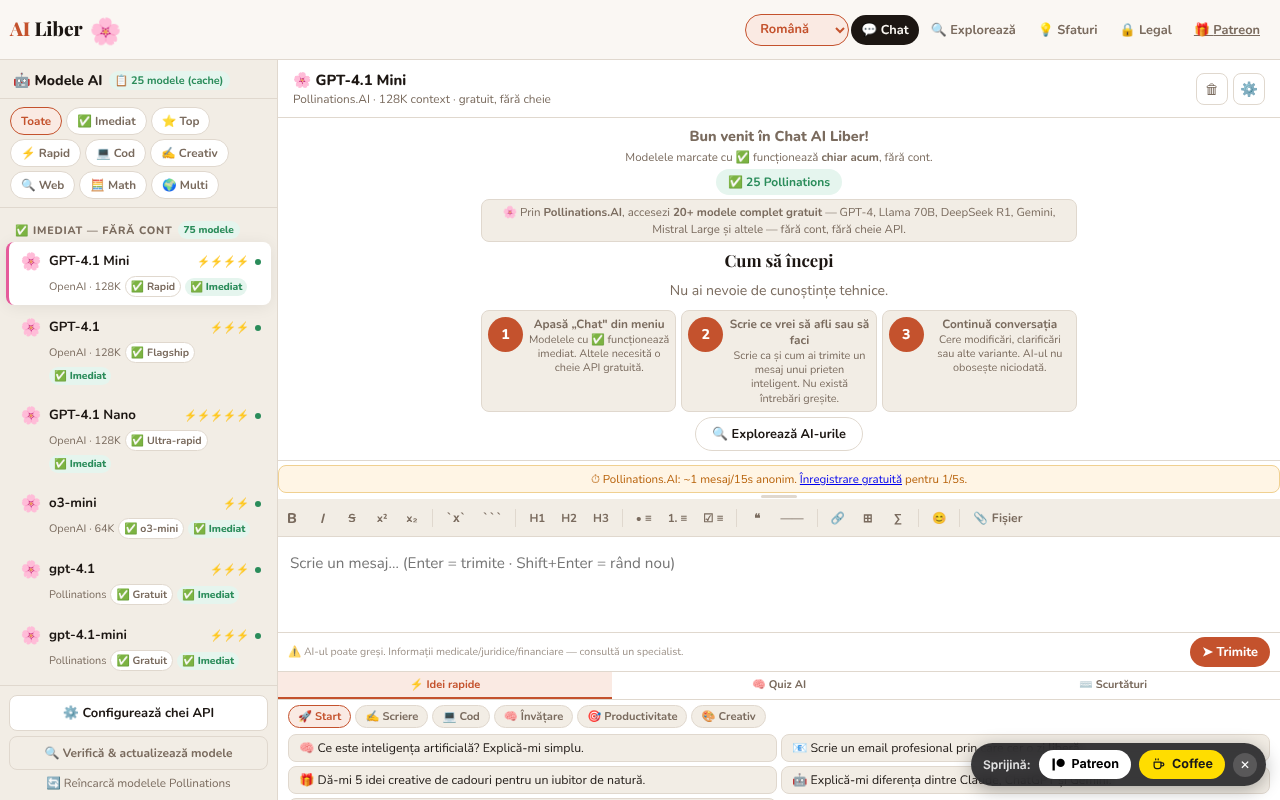
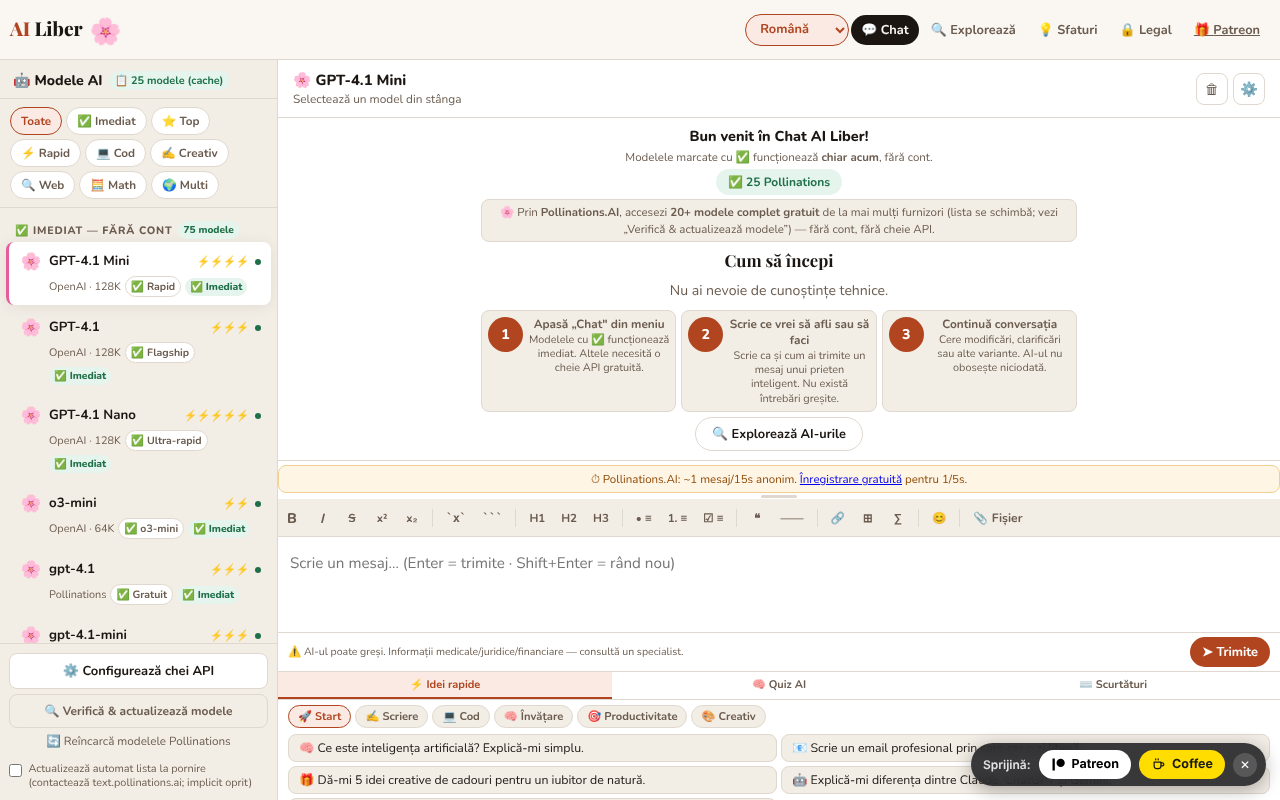
Runda 5 (11 octombrie 2026): reparații, accesibilitate, date și conținut actualizate
Claude-Session: https://claude.ai/code/session_01D2sCEb3hy3nutYexhUfQFs

diff --git a/index.html b/index.html
@@ -77,6 +77,8 @@ body>nav{position:fixed;top:0;left:0;right:0;height:var(--nav);z-index:200;
 .nb:hover{background:var(--surf2);color:var(--txt)}
 .nb.on{background:var(--txt);color:var(--bg)}
 
+.lmod-body,.lmod-body p,.lmod-body li,.lmod-body td{overflow-wrap:anywhere}
+.sr-only{position:absolute;width:1px;height:1px;margin:-1px;padding:0;overflow:hidden;clip:rect(0,0,0,0);white-space:nowrap;border:0}
 .page{display:none;padding-top:var(--nav)}
 .page.on{display:flex;flex-direction:column;min-height:100vh;min-height:100dvh}
 #page-chat.on{display:flex;flex-direction:column;min-height:unset;height:100vh;height:100dvh}
@@ -283,7 +285,7 @@ body.is-resizing .sb::after{opacity:.6}
 .dot:nth-child(2){animation-delay:.2s}.dot:nth-child(3){animation-delay:.4s}
 @keyframes bo{0%,60%,100%{transform:translateY(0)}30%{transform:translateY(-7px)}}
 .cwelc{text-align:center;padding:8px 20px 6px;color:var(--mut);max-width:520px;margin:0 auto}
-.cwelc h3{font-size:1.05rem;font-weight:700;color:var(--txt);margin-bottom:5px}
+.cwelc h2,.cwelc h3{font-size:1.05rem;font-weight:700;color:var(--txt);margin-bottom:5px}
 .cwelc p{font-size:.88rem;margin-bottom:5px;line-height:1.6}
 .wfree{font-size:.75rem;font-weight:700;color:var(--grn);background:var(--grn-lt);
   padding:5px 12px;border-radius:100px;display:inline-block;margin-bottom:13px}
@@ -544,6 +546,10 @@ body.inp-resizing{cursor:ns-resize!important;user-select:none!important}
   /* Pe telefoane mici ascunde eticheta Legal */
   #nb-legal .nl{display:none}
   .lang-sel option{max-width:60px}
+  nav{padding:0 6px}
+  .nb{padding:6px 6px}
+  .lang-sel-nav{max-width:68px;padding:4px 4px}
+  .logo-wico{display:none}
 }
 
 
@@ -849,6 +855,8 @@ body.inp-resizing{cursor:ns-resize!important;user-select:none!important}
   <a class="nb nb-patreon" href="https://www.patreon.com/c/alexio_tf" target="_blank" rel="noopener" data-i18n-title="patreonTitle" title="Susține AI Liber pe Patreon">🎁 <span class="nl" data-i18n="navPatreon">Patreon</span></a>
 </nav>
 
+<main id="main-content">
+<h1 class="sr-only">AI Liber</h1>
 <!-- CHAT -->
 <div class="page on" id="page-chat">
   <div class="sbov" id="sbov" onclick="closeSB()"></div>
@@ -903,7 +911,7 @@ body.inp-resizing{cursor:ns-resize!important;user-select:none!important}
       <div class="cmsgs" id="cmsgs">
         <div class="cwelc" id="cwelc">
           <span class="wico">🌸</span>
-          <h3 data-i18n="cwH">Bun venit în Chat AI Liber!</h3>
+          <h2 data-i18n="cwH">Bun venit în Chat AI Liber!</h2>
           <p data-i18n-html="cwP">Modelele marcate cu ✅ funcționează <strong>chiar acum</strong><span data-i18n="badgeSuffix2">, fără cont.</span></p>
           <div class="wfree" id="wfree-cnt" data-i18n="cwFree">✅ Se încarcă lista de modele gratuite…</div>
 
@@ -998,6 +1006,7 @@ body.inp-resizing{cursor:ns-resize!important;user-select:none!important}
   <div class="exwrap">
     <h2 class="stit" data-i18n="exH">Cele mai bune AI-uri gratuite</h2>
     <p class="ssub" data-i18n="exSub">Toate sunt gratuite. Fă clic pentru a le deschide direct.</p>
+    <p class="ssub" data-i18n="exNote" style="font-size:.78rem">Planurile gratuite și condițiile furnizorilor se schimbă des; catalogul a fost verificat doar parțial la 11.10.2026 — confirmă pe site-ul fiecărui serviciu.</p>
     <div class="fbar">
       <button class="fchip on" onclick="exF('all',this)" data-i18n="fAll">✦ Toate</button>
       <button class="fchip" onclick="exF('anon',this)" data-i18n="fAnon">🔒 Fără cont</button>
@@ -1059,6 +1068,21 @@ body.inp-resizing{cursor:ns-resize!important;user-select:none!important}
   </div>
 </div>
 
+<!-- LEGAL -->
+<div class="page" id="page-legal">
+  <div class="tips-wrap">
+    <h2 class="stit" data-i18n="navLegal" style="margin-bottom:12px">🔒 Legal</h2>
+    <div style="display:flex;gap:0;border-bottom:1px solid var(--bdr);margin-bottom:16px;overflow-x:auto">
+      <button class="ltab on" data-tab="privacy" onclick="openLegal('privacy')" data-i18n="ltPriv" style="flex:1;padding:9px 4px;border:none;border-bottom:2px solid transparent;background:none;font-family:'Nunito',sans-serif;font-size:.75rem;font-weight:700;cursor:pointer;color:var(--mut);white-space:nowrap;transition:all .16s;min-width:80px">🔒 Confidențialitate</button>
+      <button class="ltab" data-tab="terms" onclick="openLegal('terms')" data-i18n="ltTerms" style="flex:1;padding:9px 4px;border:none;border-bottom:2px solid transparent;background:none;font-family:'Nunito',sans-serif;font-size:.75rem;font-weight:700;cursor:pointer;color:var(--mut);white-space:nowrap;transition:all .16s;min-width:60px">📋 Termeni</button>
+      <button class="ltab" data-tab="cookies" onclick="openLegal('cookies')" data-i18n="ltCook" style="flex:1;padding:9px 4px;border:none;border-bottom:2px solid transparent;background:none;font-family:'Nunito',sans-serif;font-size:.75rem;font-weight:700;cursor:pointer;color:var(--mut);white-space:nowrap;transition:all .16s;min-width:70px">🍪 Cookie-uri</button>
+      <button class="ltab" data-tab="gdpr" onclick="openLegal('gdpr')" data-i18n="ltGDPR" style="flex:1;padding:9px 4px;border:none;border-bottom:2px solid transparent;background:none;font-family:'Nunito',sans-serif;font-size:.75rem;font-weight:700;cursor:pointer;color:var(--mut);white-space:nowrap;transition:all .16s;min-width:60px">🛡 GDPR</button>
+    </div>
+    <div class="lmod-body" id="legal-page-body" style="max-width:680px;margin:0 auto"></div>
+  </div>
+</div>
+</main>
+
 <!-- SETTINGS -->
 <div class="ov" id="sov" onclick="sovClick(event)">
   <div class="modal">
@@ -1092,7 +1116,7 @@ h1Em:'pentru toți',
 lead:'Chat cu GPT-4, Llama, Gemini, DeepSeek și 30+ modele AI — unele fără cont, toate accesibile.',
 heroBtn1:'💬 Deschide Chat',
 heroBtn2:'🔍 Explorează AI-urile',
-bannerP:'Prin <strong>Pollinations.AI</strong>, accesezi <strong>20+ modele complet gratuit</strong> — GPT-4, Llama 70B, DeepSeek R1, Gemini, Mistral Large și altele <span data-i18n="badgeSuffix">— fără cont, fără cheie API.</span>',
+bannerP:'Prin <strong>Pollinations.AI</strong>, accesezi <strong>20+ modele complet gratuit</strong> de la mai mulți furnizori (lista se schimbă; vezi „Verifică & actualizează modele”) <span data-i18n="badgeSuffix">— fără cont, fără cheie API.</span>',
 sec1H:'Ce este inteligența artificială?',
 sec1P:'Un AI este un program cu care poți purta o conversație normală — ca un asistent extrem de bine pregătit, disponibil 24/7.',
 c1H:'Scrie pentru tine',
@@ -1101,6 +1125,8 @@ c2H:'Răspunde la orice',
 c2P:'Știință, medicină, drept, rețete, sfaturi — AI-ul explică pe înțelesul tău, fără judecăți.',
 c3H:'Economisești timp',
 c3P:'Sarcini care durau ore pot fi realizate în minute.',
+errOffline:'Ești offline: acest model are nevoie de internet. Reconectează-te sau alege un model local (WebLLM, Ollama, LM Studio).',
+exNote:'Planurile gratuite și condițiile furnizorilor se schimbă des; catalogul a fost verificat doar parțial la 11.10.2026 — confirmă pe site-ul fiecărui serviciu.',
 stepsH:'Cum să începi',
 stepsP:'Nu ai nevoie de cunoștințe tehnice.',
 st1H:'Apasă „Chat" din meniu',
@@ -1328,7 +1354,7 @@ h1Em:'for everyone',
 lead:'Chat with GPT-4, Llama, Gemini, DeepSeek and 30+ AI models — some without an account, all free.',
 heroBtn1:'💬 Open Chat',
 heroBtn2:'🔍 Explore AIs',
-bannerP:'Through <strong>Pollinations.AI</strong>, access <strong>20+ models completely free</strong> — GPT-4, Llama 70B, DeepSeek R1, Gemini, Mistral Large and more — no account, no API key.',
+bannerP:'Through <strong>Pollinations.AI</strong>, access <strong>20+ models completely free</strong> from several providers (the list changes — see “Check &amp; update models”) — no account, no API key.',
 sec1H:'What is artificial intelligence?',
 sec1P:'An AI is a program you can have a normal conversation with — like an extremely well-trained assistant, available 24/7.',
 c1H:'Writes for you',
@@ -1337,6 +1363,8 @@ c2H:'Answers anything',
 c2P:'Science, medicine, law, recipes, advice — AI explains in plain language, without judgment.',
 c3H:'Saves your time',
 c3P:'Tasks that took hours can now be done in minutes.',
+errOffline:'You are offline: this model needs the internet. Reconnect or choose a local model (WebLLM, Ollama, LM Studio).',
+exNote:'Free plans and provider terms change often; the catalog was only partly re-checked on 11 Oct 2026 — confirm on each service\'s own site.',
 stepsH:'How to get started',
 stepsP:'No technical knowledge required.',
 st1H:'Click "Chat" in the menu',
@@ -1572,6 +1600,8 @@ c2H:'Risponde a tutto',
 c2P:'Scienza, medicina, diritto, ricette — l\'IA spiega in modo semplice, senza giudicare.',
 c3H:'Risparmia tempo',
 c3P:'Attività che richiedevano ore possono essere svolte in minuti.',
+errOffline:'Sei offline: questo modello richiede internet. Riconnettiti o scegli un modello locale (WebLLM, Ollama, LM Studio).',
+exNote:'I piani gratuiti e le condizioni dei fornitori cambiano spesso; il catalogo è stato ricontrollato solo in parte l\'11.10.2026 — verifica sul sito di ciascun servizio.',
 stepsH:'Come iniziare',
 stepsP:'Nessuna conoscenza tecnica richiesta.',
 st1H:'Clicca su "Chat" nel menu',
@@ -1807,6 +1837,8 @@ c2H:'Responde cualquier cosa',
 c2P:'Ciencia, medicina, derecho, recetas — la IA explica en tu idioma, sin juicios.',
 c3H:'Ahorra tu tiempo',
 c3P:'Tareas que tomaban horas ahora se hacen en minutos.',
+errOffline:'Estás sin conexión: este modelo necesita internet. Vuelve a conectarte o elige un modelo local (WebLLM, Ollama, LM Studio).',
+exNote:'Los planes gratuitos y las condiciones de los proveedores cambian a menudo; el catálogo se revisó solo en parte el 11.10.2026: confirma en el sitio de cada servicio.',
 stepsH:'Cómo empezar',
 stepsP:'No se requieren conocimientos técnicos.',
 st1H:'Haz clic en "Chat" en el menú',
@@ -2042,6 +2074,8 @@ c2H:'Responde a tudo',
 c2P:'Ciência, medicina, direito, receitas — a IA explica de forma simples, sem julgamentos.',
 c3H:'Economiza seu tempo',
 c3P:'Tarefas que levavam horas agora são feitas em minutos.',
+errOffline:'Você está offline: este modelo precisa de internet. Reconecte-se ou escolha um modelo local (WebLLM, Ollama, LM Studio).',
+exNote:'Os planos gratuitos e as condições dos provedores mudam com frequência; o catálogo foi reverificado só em parte em 11.10.2026 — confirme no site de cada serviço.',
 stepsH:'Como começar',
 stepsP:'Nenhum conhecimento técnico necessário.',
 st1H:'Clique em "Chat" no menu',
@@ -2277,6 +2311,8 @@ c2H:'Répond à tout',
 c2P:'Science, médecine, droit, recettes — l\'IA explique simplement, sans jugement.',
 c3H:'Économise votre temps',
 c3P:'Des tâches qui prenaient des heures se font maintenant en minutes.',
+errOffline:'Vous êtes hors ligne : ce modèle nécessite internet. Reconnectez-vous ou choisissez un modèle local (WebLLM, Ollama, LM Studio).',
+exNote:'Les offres gratuites et les conditions des fournisseurs changent souvent ; le catalogue n\'a été revérifié que partiellement le 11.10.2026 — confirmez sur le site de chaque service.',
 stepsH:'Comment commencer',
 stepsP:'Aucune connaissance technique requise.',
 st1H:'Cliquez sur "Chat" dans le menu',
@@ -2512,6 +2548,8 @@ c2H:'Beantwortet alles',
 c2P:'Wissenschaft, Medizin, Recht, Rezepte — die KI erklärt verständlich, ohne zu urteilen.',
 c3H:'Spart Ihre Zeit',
 c3P:'Aufgaben, die Stunden dauerten, werden jetzt in Minuten erledigt.',
+errOffline:'Du bist offline: Dieses Modell braucht Internet. Verbinde dich erneut oder wähle ein lokales Modell (WebLLM, Ollama, LM Studio).',
+exNote:'Kostenlose Tarife und Anbieterbedingungen ändern sich oft; der Katalog wurde am 11.10.2026 nur teilweise geprüft — bitte auf der Seite des jeweiligen Dienstes bestätigen.',
 stepsH:'Wie man anfängt',
 stepsP:'Keine technischen Kenntnisse erforderlich.',
 st1H:'Klicken Sie auf „Chat" im Menü',
@@ -2787,6 +2825,8 @@ function setLang(lc){ _qpCat=null;
   try{localStorage.setItem('ailib_lang',lc);}catch(e){}
   document.documentElement.lang=lc;
   applyI18n();
+  // Ecranul de bun venit este generat din șabloane: îl regenerăm în limba nouă (altfel rămân texte din limba veche)
+  try{ if(document.getElementById('cwelc') && !document.querySelector('#cmsgs .msg')) _showWelcome(); }catch(x){}
   _renderCpanel();
   // Refresh explore grid badges after lang change
   try{
@@ -2832,7 +2872,7 @@ const PROV={
   pollinations:{n:'Pollinations.AI',ico:'🌸',c:'#E55B9B',noKey:true,free:true,
     guide:'✅ <strong>Complet gratuit, fără cont, fără cheie!</strong> Rata: 1 mesaj/15s anonim. Înregistrare gratuită la <a href="https://auth.pollinations.ai" target="_blank" rel="noopener noreferrer">auth.pollinations.ai</a> pentru 1 mesaj/5s.'},
   duckduckgo:{n:'DuckDuckGo AI',ico:'🦆',c:'#DE5833',noKey:true,free:true,
-    guide:'✅ <strong>100% anonim, fără cont, fără date înregistrate!</strong> DuckDuckGo nu salvează nimic. Acces la GPT-4o mini, Claude, Llama și Mixtral. Notă: pot apărea erori CORS în unele browsere — încearcă Pollinations ca alternativă.'},
+    guide:'✅ <strong>Fără cont, fără cheie!</strong> Conform DuckDuckGo, conversațiile nu sunt salvate. Modelele oferite se schimbă des (verificat la 11.10.2026: GPT-4o mini, GPT-5 mini, Claude Haiku 4.5, gpt-oss-120b, Llama 4 Scout, Mistral Small 3; sursa: TechRadar, iulie 2026) — unele modele din lista aplicației pot fi retrase: folosește „Verifică & actualizează modele”. Notă: pot apărea erori CORS în unele browsere — încearcă Pollinations ca alternativă.'},
   webllm:{n:'WebLLM (Browser Local)',ico:'🖥',c:'#059669',noKey:true,free:true,
     guide:'✅ <strong>Rulează 100% LOCAL în browserul tău!</strong> Zero server, zero date trimise. Complet privat. Necesită Chrome 113+ sau Edge 113+ (cu WebGPU). Prima descărcare: 1-4GB per model (se cacheează permanent în browser).'},
   aihorde:{n:'AI Horde',ico:'🌐',c:'#D97706',noKey:true,free:true,
@@ -3775,7 +3815,7 @@ function _showWelcome(){
       <p data-i18n-html="cwP" style="font-size:.72rem;color:var(--mut);margin:0 0 3px">${t('cwP')}</p>
       <div class="wfree" style="margin-bottom:4px">✅ ${c} Pollinations</div>
       <div class="cwelc-free-banner">
-        🌸 ${t('bannerP')||'Prin <strong>Pollinations.AI</strong>, accesezi <strong>20+ modele gratuit</strong> — fără cont, fără cheie API.'}
+        🌸 ${t('bannerP')}
       </div>
     </div>
     <div class="cwelc-sec">
@@ -4137,6 +4177,7 @@ async function sendMsg(){
   const text=ta.value.trim();
   if(!text)return;
   if(!canUse(cur)){openInlineKey(cur.p);return;}
+  if(typeof navigator!=='undefined' && navigator.onLine===false && !['webllm','ollama','lmstudio'].includes(cur.p)){addErrMsg(t('errOffline'));return;}
 
   ta.value='';ta.style.height='auto';
   if(cur&&hists[cur.id])hists[cur.id].draft='';
@@ -7978,20 +8019,6 @@ function eraseAllData(){
 
 
 
-<!-- LEGAL -->
-<div class="page" id="page-legal">
-  <div class="tips-wrap">
-    <h2 class="stit" data-i18n="navLegal" style="margin-bottom:12px">🔒 Legal</h2>
-    <div style="display:flex;gap:0;border-bottom:1px solid var(--bdr);margin-bottom:16px;overflow-x:auto">
-      <button class="ltab on" data-tab="privacy" onclick="openLegal('privacy')" data-i18n="ltPriv" style="flex:1;padding:9px 4px;border:none;border-bottom:2px solid transparent;background:none;font-family:'Nunito',sans-serif;font-size:.75rem;font-weight:700;cursor:pointer;color:var(--mut);white-space:nowrap;transition:all .16s;min-width:80px">🔒 Confidențialitate</button>
-      <button class="ltab" data-tab="terms" onclick="openLegal('terms')" data-i18n="ltTerms" style="flex:1;padding:9px 4px;border:none;border-bottom:2px solid transparent;background:none;font-family:'Nunito',sans-serif;font-size:.75rem;font-weight:700;cursor:pointer;color:var(--mut);white-space:nowrap;transition:all .16s;min-width:60px">📋 Termeni</button>
-      <button class="ltab" data-tab="cookies" onclick="openLegal('cookies')" data-i18n="ltCook" style="flex:1;padding:9px 4px;border:none;border-bottom:2px solid transparent;background:none;font-family:'Nunito',sans-serif;font-size:.75rem;font-weight:700;cursor:pointer;color:var(--mut);white-space:nowrap;transition:all .16s;min-width:70px">🍪 Cookie-uri</button>
-      <button class="ltab" data-tab="gdpr" onclick="openLegal('gdpr')" data-i18n="ltGDPR" style="flex:1;padding:9px 4px;border:none;border-bottom:2px solid transparent;background:none;font-family:'Nunito',sans-serif;font-size:.75rem;font-weight:700;cursor:pointer;color:var(--mut);white-space:nowrap;transition:all .16s;min-width:60px">🛡 GDPR</button>
-    </div>
-    <div class="lmod-body" id="legal-page-body" style="max-width:680px;margin:0 auto"></div>
-  </div>
-</div>
-
 <!-- ══ MODEL CHECK MODAL ═══════════════════════════════════ -->
 <div class="mcheck-ov" id="mcheck-ov" onclick="if(event.target===this)closeMCheck()">
   <div class="mcheck-box">
@@ -8055,7 +8082,7 @@ function eraseAllData(){
 <!-- ══ COOKIE CONSENT BANNER ════════════════════════════════ -->
 
 <!-- tf-donate: sprijin voluntar (Patreon + Buy Me a Coffee) — self-contained, fără resurse externe, fără JS -->
-<div id="tf-donate" aria-label="Sprijină autorul">
+<div id="tf-donate" role="complementary" aria-label="Sprijină autorul">
 <style>
 #tf-donate{position:fixed;right:14px;bottom:14px;z-index:2147483600;font-family:system-ui,-apple-system,"Segoe UI",Roboto,sans-serif;line-height:1}
 #tf-donate *{box-sizing:border-box}

diff --git a/README.md b/README.md
@@ -2,6 +2,8 @@
 
 Chat cu modele de inteligență artificială gratuite sau cu cheile tale API, plus un ghid al celor mai bune AI-uri gratuite, într-un singur fișier HTML.
 
+**Ultima actualizare:** 11 octombrie 2026
+
 **Live:** https://chiuta.github.io/AI-Liber/
 
 ![Captura de ecran](screenshot.png)
@@ -68,3 +70,12 @@ Alexio — Alexandru-Ionuț Chiuță, contact: alexio@trom.tf. Aplicația este o
 ## English summary
 
 AI Liber is a single-file HTML chat front-end for free no-account AI services, bring-your-own-key APIs, local Ollama/LM Studio servers and an in-browser WebLLM model, plus a directory of free AI tools, a quiz and prompt ideas. 7 UI languages. Keys are kept in localStorage (AES-GCM obfuscated, not strong encryption). Chat requires internet access to the chosen provider. CC0.
+
+## Surse verificate la 11.10.2026
+- DuckDuckGo AI Chat (duck.ai), modele gratuite fără cont: TechRadar, „Duck.ai by DuckDuckGo review”, 13 iulie 2026 (https://techradar.com/pro/duck-ai-review): Claude 4.5 Haiku, GPT-4o mini, GPT-5 mini, gpt-oss-120b, Llama 4 Scout, Mistral Small 3 24B. Modelele hardcodate în aplicație pentru DuckDuckGo (Claude 3 Haiku, Llama 3.1 70B, Mixtral 8x7B, o3-mini) pot fi retrase; ID-urile API ale DuckDuckGo nu pot fi verificate fără rețea și nu au fost schimbate (aplicația are „Verifică & actualizează modele” și lista de modele care dau 404).
+- Pollinations (text, fără cheie, ~1 cerere/15 s anonim, cheie gratuită opțională): https://free-llm.com/provider/pollinations-ai (pagină actualizată în octombrie 2026).
+- Textele juridice (versiunea „v1.0 · 12 aprilie 2026”) nu au fost modificate în această rundă; data lor este decizia autorului și nu a fost schimbată.
+
+## Istoric / Changelog
+- **11 octombrie 2026** — ecranul de bun venit se regenerează la schimbarea limbii (înainte rămânea în română într-o interfață engleză/franceză etc.); bannerul nu mai enumeră modele perisabile (GPT-4, Llama 70B, DeepSeek R1…); ghidul DuckDuckGo este datat și cu avertisment despre modele retrase; notă datată în „Explorează” despre planuri gratuite schimbătoare; mesaj clar „ești offline” (7 limbi) în loc de eroare de rețea când alegi un model care are nevoie de internet; pe 360 px nu mai apar depășiri orizontale (bara de sus, pagina Legal).
+- Accesibilitate: conținutul este în `main` (inclusiv pagina Legal), titlu `h1` ascuns vizual, ordinea titlurilor corectată, widgetul de sprijin are rol `complementary`; axe-core: 0 violări la 1280×800 și 360×740 pe paginile Chat, Explorează, Sfaturi și Legal. Cele 113 atribute `onclick`/`onchange` inline au rămas (CSP-ul permite `'unsafe-inline'`; refactorizarea lor ar fi riscantă fără teste de regresie extinse). Aplicația nu are număr de versiune.
